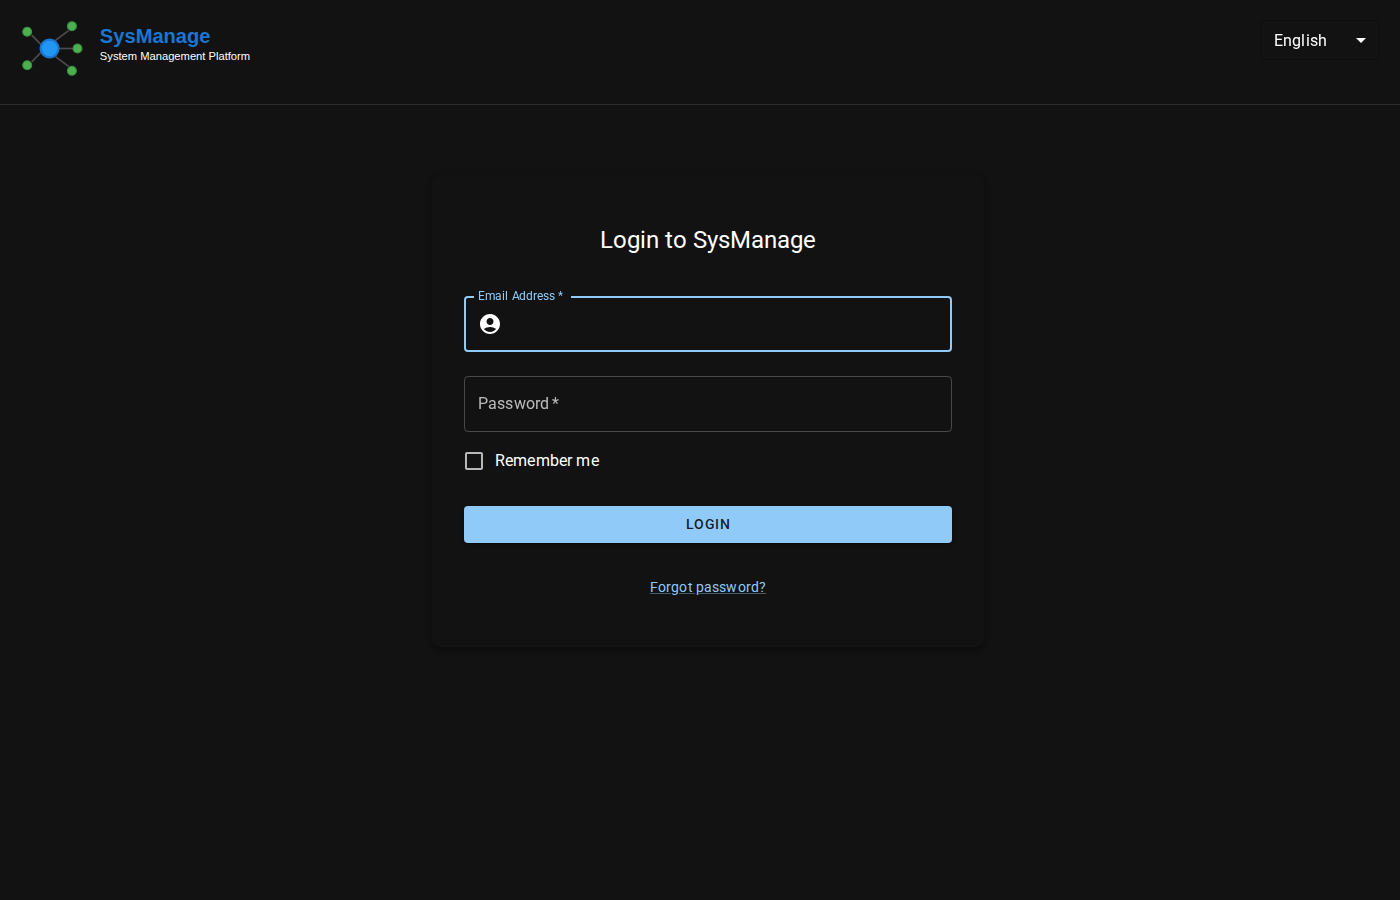
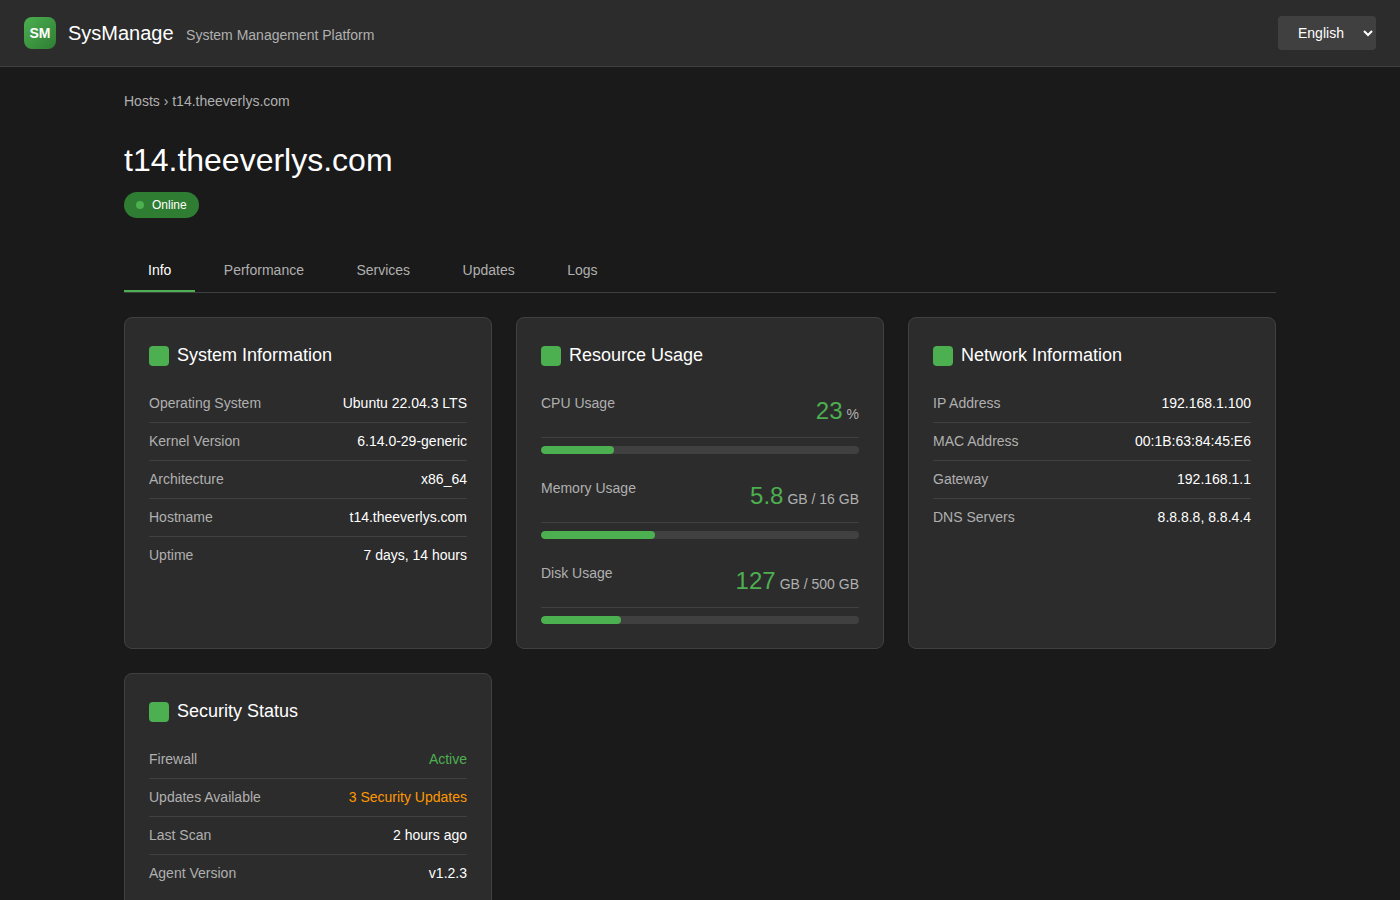
Updated screenshot

diff --git a/mockup-dashboard.html b/mockup-dashboard.html
@@ -1,0 +1,360 @@
+<!DOCTYPE html>
+<html lang="en">
+<head>
+    <meta charset="UTF-8">
+    <meta name="viewport" content="width=device-width, initial-scale=1.0">
+    <title>SysManage - Host Details</title>
+    <style>
+        * {
+            margin: 0;
+            padding: 0;
+            box-sizing: border-box;
+        }
+
+        body {
+            font-family: "Roboto", "Helvetica", "Arial", sans-serif;
+            background-color: #1a1a1a;
+            color: #ffffff;
+            line-height: 1.5;
+        }
+
+        .app-header {
+            background-color: #2c2c2c;
+            padding: 16px 24px;
+            border-bottom: 1px solid #404040;
+            display: flex;
+            align-items: center;
+            justify-content: space-between;
+        }
+
+        .logo-container {
+            display: flex;
+            align-items: center;
+            gap: 12px;
+        }
+
+        .logo {
+            width: 32px;
+            height: 32px;
+            background: linear-gradient(135deg, #4CAF50 0%, #2E7D32 100%);
+            border-radius: 8px;
+            display: flex;
+            align-items: center;
+            justify-content: center;
+            color: white;
+            font-weight: bold;
+            font-size: 14px;
+        }
+
+        .app-title {
+            font-size: 20px;
+            font-weight: 500;
+            color: #ffffff;
+        }
+
+        .app-subtitle {
+            font-size: 14px;
+            color: #b0b0b0;
+            margin-left: 8px;
+        }
+
+        .language-selector {
+            background-color: #404040;
+            color: #ffffff;
+            border: none;
+            padding: 8px 16px;
+            border-radius: 4px;
+            font-size: 14px;
+        }
+
+        .main-content {
+            padding: 24px;
+            max-width: 1200px;
+            margin: 0 auto;
+        }
+
+        .breadcrumb {
+            color: #b0b0b0;
+            margin-bottom: 24px;
+            font-size: 14px;
+        }
+
+        .page-header {
+            margin-bottom: 32px;
+        }
+
+        .page-title {
+            font-size: 32px;
+            font-weight: 300;
+            margin-bottom: 8px;
+            color: #ffffff;
+        }
+
+        .host-status {
+            display: inline-flex;
+            align-items: center;
+            gap: 8px;
+            background-color: #2e7d32;
+            color: white;
+            padding: 4px 12px;
+            border-radius: 16px;
+            font-size: 12px;
+            font-weight: 500;
+        }
+
+        .status-dot {
+            width: 8px;
+            height: 8px;
+            background-color: #4caf50;
+            border-radius: 50%;
+        }
+
+        .tabs {
+            border-bottom: 1px solid #404040;
+            margin-bottom: 24px;
+        }
+
+        .tab {
+            display: inline-block;
+            padding: 12px 24px;
+            background-color: transparent;
+            border: none;
+            color: #b0b0b0;
+            font-size: 14px;
+            cursor: pointer;
+            border-bottom: 2px solid transparent;
+        }
+
+        .tab.active {
+            color: #ffffff;
+            border-bottom-color: #4caf50;
+        }
+
+        .info-grid {
+            display: grid;
+            grid-template-columns: repeat(auto-fit, minmax(300px, 1fr));
+            gap: 24px;
+        }
+
+        .info-card {
+            background-color: #2c2c2c;
+            border-radius: 8px;
+            padding: 24px;
+            border: 1px solid #404040;
+        }
+
+        .card-title {
+            font-size: 18px;
+            font-weight: 500;
+            margin-bottom: 16px;
+            color: #ffffff;
+            display: flex;
+            align-items: center;
+            gap: 8px;
+        }
+
+        .card-icon {
+            width: 20px;
+            height: 20px;
+            background-color: #4caf50;
+            border-radius: 4px;
+        }
+
+        .info-row {
+            display: flex;
+            justify-content: space-between;
+            padding: 8px 0;
+            border-bottom: 1px solid #404040;
+        }
+
+        .info-row:last-child {
+            border-bottom: none;
+        }
+
+        .info-label {
+            color: #b0b0b0;
+            font-size: 14px;
+        }
+
+        .info-value {
+            color: #ffffff;
+            font-size: 14px;
+            font-weight: 500;
+        }
+
+        .metric-value {
+            font-size: 24px;
+            font-weight: 300;
+            color: #4caf50;
+        }
+
+        .metric-unit {
+            font-size: 14px;
+            color: #b0b0b0;
+            margin-left: 4px;
+        }
+
+        .progress-bar {
+            width: 100%;
+            height: 8px;
+            background-color: #404040;
+            border-radius: 4px;
+            margin-top: 8px;
+            overflow: hidden;
+        }
+
+        .progress-fill {
+            height: 100%;
+            background-color: #4caf50;
+            border-radius: 4px;
+        }
+    </style>
+</head>
+<body>
+    <header class="app-header">
+        <div class="logo-container">
+            <div class="logo">SM</div>
+            <div>
+                <span class="app-title">SysManage</span>
+                <span class="app-subtitle">System Management Platform</span>
+            </div>
+        </div>
+        <select class="language-selector">
+            <option>English</option>
+        </select>
+    </header>
+
+    <main class="main-content">
+        <div class="breadcrumb">
+            Hosts › t14.theeverlys.com
+        </div>
+
+        <div class="page-header">
+            <h1 class="page-title">t14.theeverlys.com</h1>
+            <div class="host-status">
+                <div class="status-dot"></div>
+                Online
+            </div>
+        </div>
+
+        <div class="tabs">
+            <button class="tab active">Info</button>
+            <button class="tab">Performance</button>
+            <button class="tab">Services</button>
+            <button class="tab">Updates</button>
+            <button class="tab">Logs</button>
+        </div>
+
+        <div class="info-grid">
+            <div class="info-card">
+                <h2 class="card-title">
+                    <div class="card-icon"></div>
+                    System Information
+                </h2>
+                <div class="info-row">
+                    <span class="info-label">Operating System</span>
+                    <span class="info-value">Ubuntu 22.04.3 LTS</span>
+                </div>
+                <div class="info-row">
+                    <span class="info-label">Kernel Version</span>
+                    <span class="info-value">6.14.0-29-generic</span>
+                </div>
+                <div class="info-row">
+                    <span class="info-label">Architecture</span>
+                    <span class="info-value">x86_64</span>
+                </div>
+                <div class="info-row">
+                    <span class="info-label">Hostname</span>
+                    <span class="info-value">t14.theeverlys.com</span>
+                </div>
+                <div class="info-row">
+                    <span class="info-label">Uptime</span>
+                    <span class="info-value">7 days, 14 hours</span>
+                </div>
+            </div>
+
+            <div class="info-card">
+                <h2 class="card-title">
+                    <div class="card-icon"></div>
+                    Resource Usage
+                </h2>
+                <div class="info-row">
+                    <span class="info-label">CPU Usage</span>
+                    <span class="info-value">
+                        <span class="metric-value">23</span><span class="metric-unit">%</span>
+                    </span>
+                </div>
+                <div class="progress-bar">
+                    <div class="progress-fill" style="width: 23%"></div>
+                </div>
+
+                <div class="info-row" style="margin-top: 16px;">
+                    <span class="info-label">Memory Usage</span>
+                    <span class="info-value">
+                        <span class="metric-value">5.8</span><span class="metric-unit">GB / 16 GB</span>
+                    </span>
+                </div>
+                <div class="progress-bar">
+                    <div class="progress-fill" style="width: 36%"></div>
+                </div>
+
+                <div class="info-row" style="margin-top: 16px;">
+                    <span class="info-label">Disk Usage</span>
+                    <span class="info-value">
+                        <span class="metric-value">127</span><span class="metric-unit">GB / 500 GB</span>
+                    </span>
+                </div>
+                <div class="progress-bar">
+                    <div class="progress-fill" style="width: 25%"></div>
+                </div>
+            </div>
+
+            <div class="info-card">
+                <h2 class="card-title">
+                    <div class="card-icon"></div>
+                    Network Information
+                </h2>
+                <div class="info-row">
+                    <span class="info-label">IP Address</span>
+                    <span class="info-value">192.168.1.100</span>
+                </div>
+                <div class="info-row">
+                    <span class="info-label">MAC Address</span>
+                    <span class="info-value">00:1B:63:84:45:E6</span>
+                </div>
+                <div class="info-row">
+                    <span class="info-label">Gateway</span>
+                    <span class="info-value">192.168.1.1</span>
+                </div>
+                <div class="info-row">
+                    <span class="info-label">DNS Servers</span>
+                    <span class="info-value">8.8.8.8, 8.8.4.4</span>
+                </div>
+            </div>
+
+            <div class="info-card">
+                <h2 class="card-title">
+                    <div class="card-icon"></div>
+                    Security Status
+                </h2>
+                <div class="info-row">
+                    <span class="info-label">Firewall</span>
+                    <span class="info-value" style="color: #4caf50;">Active</span>
+                </div>
+                <div class="info-row">
+                    <span class="info-label">Updates Available</span>
+                    <span class="info-value" style="color: #ff9800;">3 Security Updates</span>
+                </div>
+                <div class="info-row">
+                    <span class="info-label">Last Scan</span>
+                    <span class="info-value">2 hours ago</span>
+                </div>
+                <div class="info-row">
+                    <span class="info-label">Agent Version</span>
+                    <span class="info-value">v1.2.3</span>
+                </div>
+            </div>
+        </div>
+    </main>
+</body>
+</html>

diff --git a/screenshot-generator.js b/screenshot-generator.js
@@ -20,21 +20,27 @@ async function generateDashboardScreenshot() {
     console.log('📱 Navigating to SysManage dashboard...');
 
     try {
-        // Navigate to the SysManage frontend
-        await page.goto('http://t14.theeverlys.com:3000', {
+        // First, try to inject a mock authentication token to bypass login
+        console.log('🔓 Attempting to bypass login with mock authentication...');
+
+        // Navigate to the mockup dashboard HTML file
+        const mockupPath = 'file://' + path.join(__dirname, 'mockup-dashboard.html');
+        console.log(`📁 Loading mockup from: ${mockupPath}`);
+
+        await page.goto(mockupPath, {
             waitUntil: 'networkidle',
             timeout: 30000
         });
 
-        console.log('⏳ Waiting for React app to load...');
+        console.log('⏳ Waiting for mockup page to load...');
 
-        // Wait for React app to load - look for the root div to have content
+        // Wait for the mockup HTML to load - look for the main content
         await page.waitForFunction(() => {
-            const root = document.querySelector('#root');
-            return root && root.children.length > 0;
+            const mainContent = document.querySelector('.main-content');
+            return mainContent && mainContent.children.length > 0;
         }, { timeout: 15000 });
 
-        console.log('✅ React app loaded, looking for login or dashboard elements...');
+        console.log('✅ Mockup page loaded!');
 
         // Wait a bit more for components to render
         await page.waitForTimeout(2000);